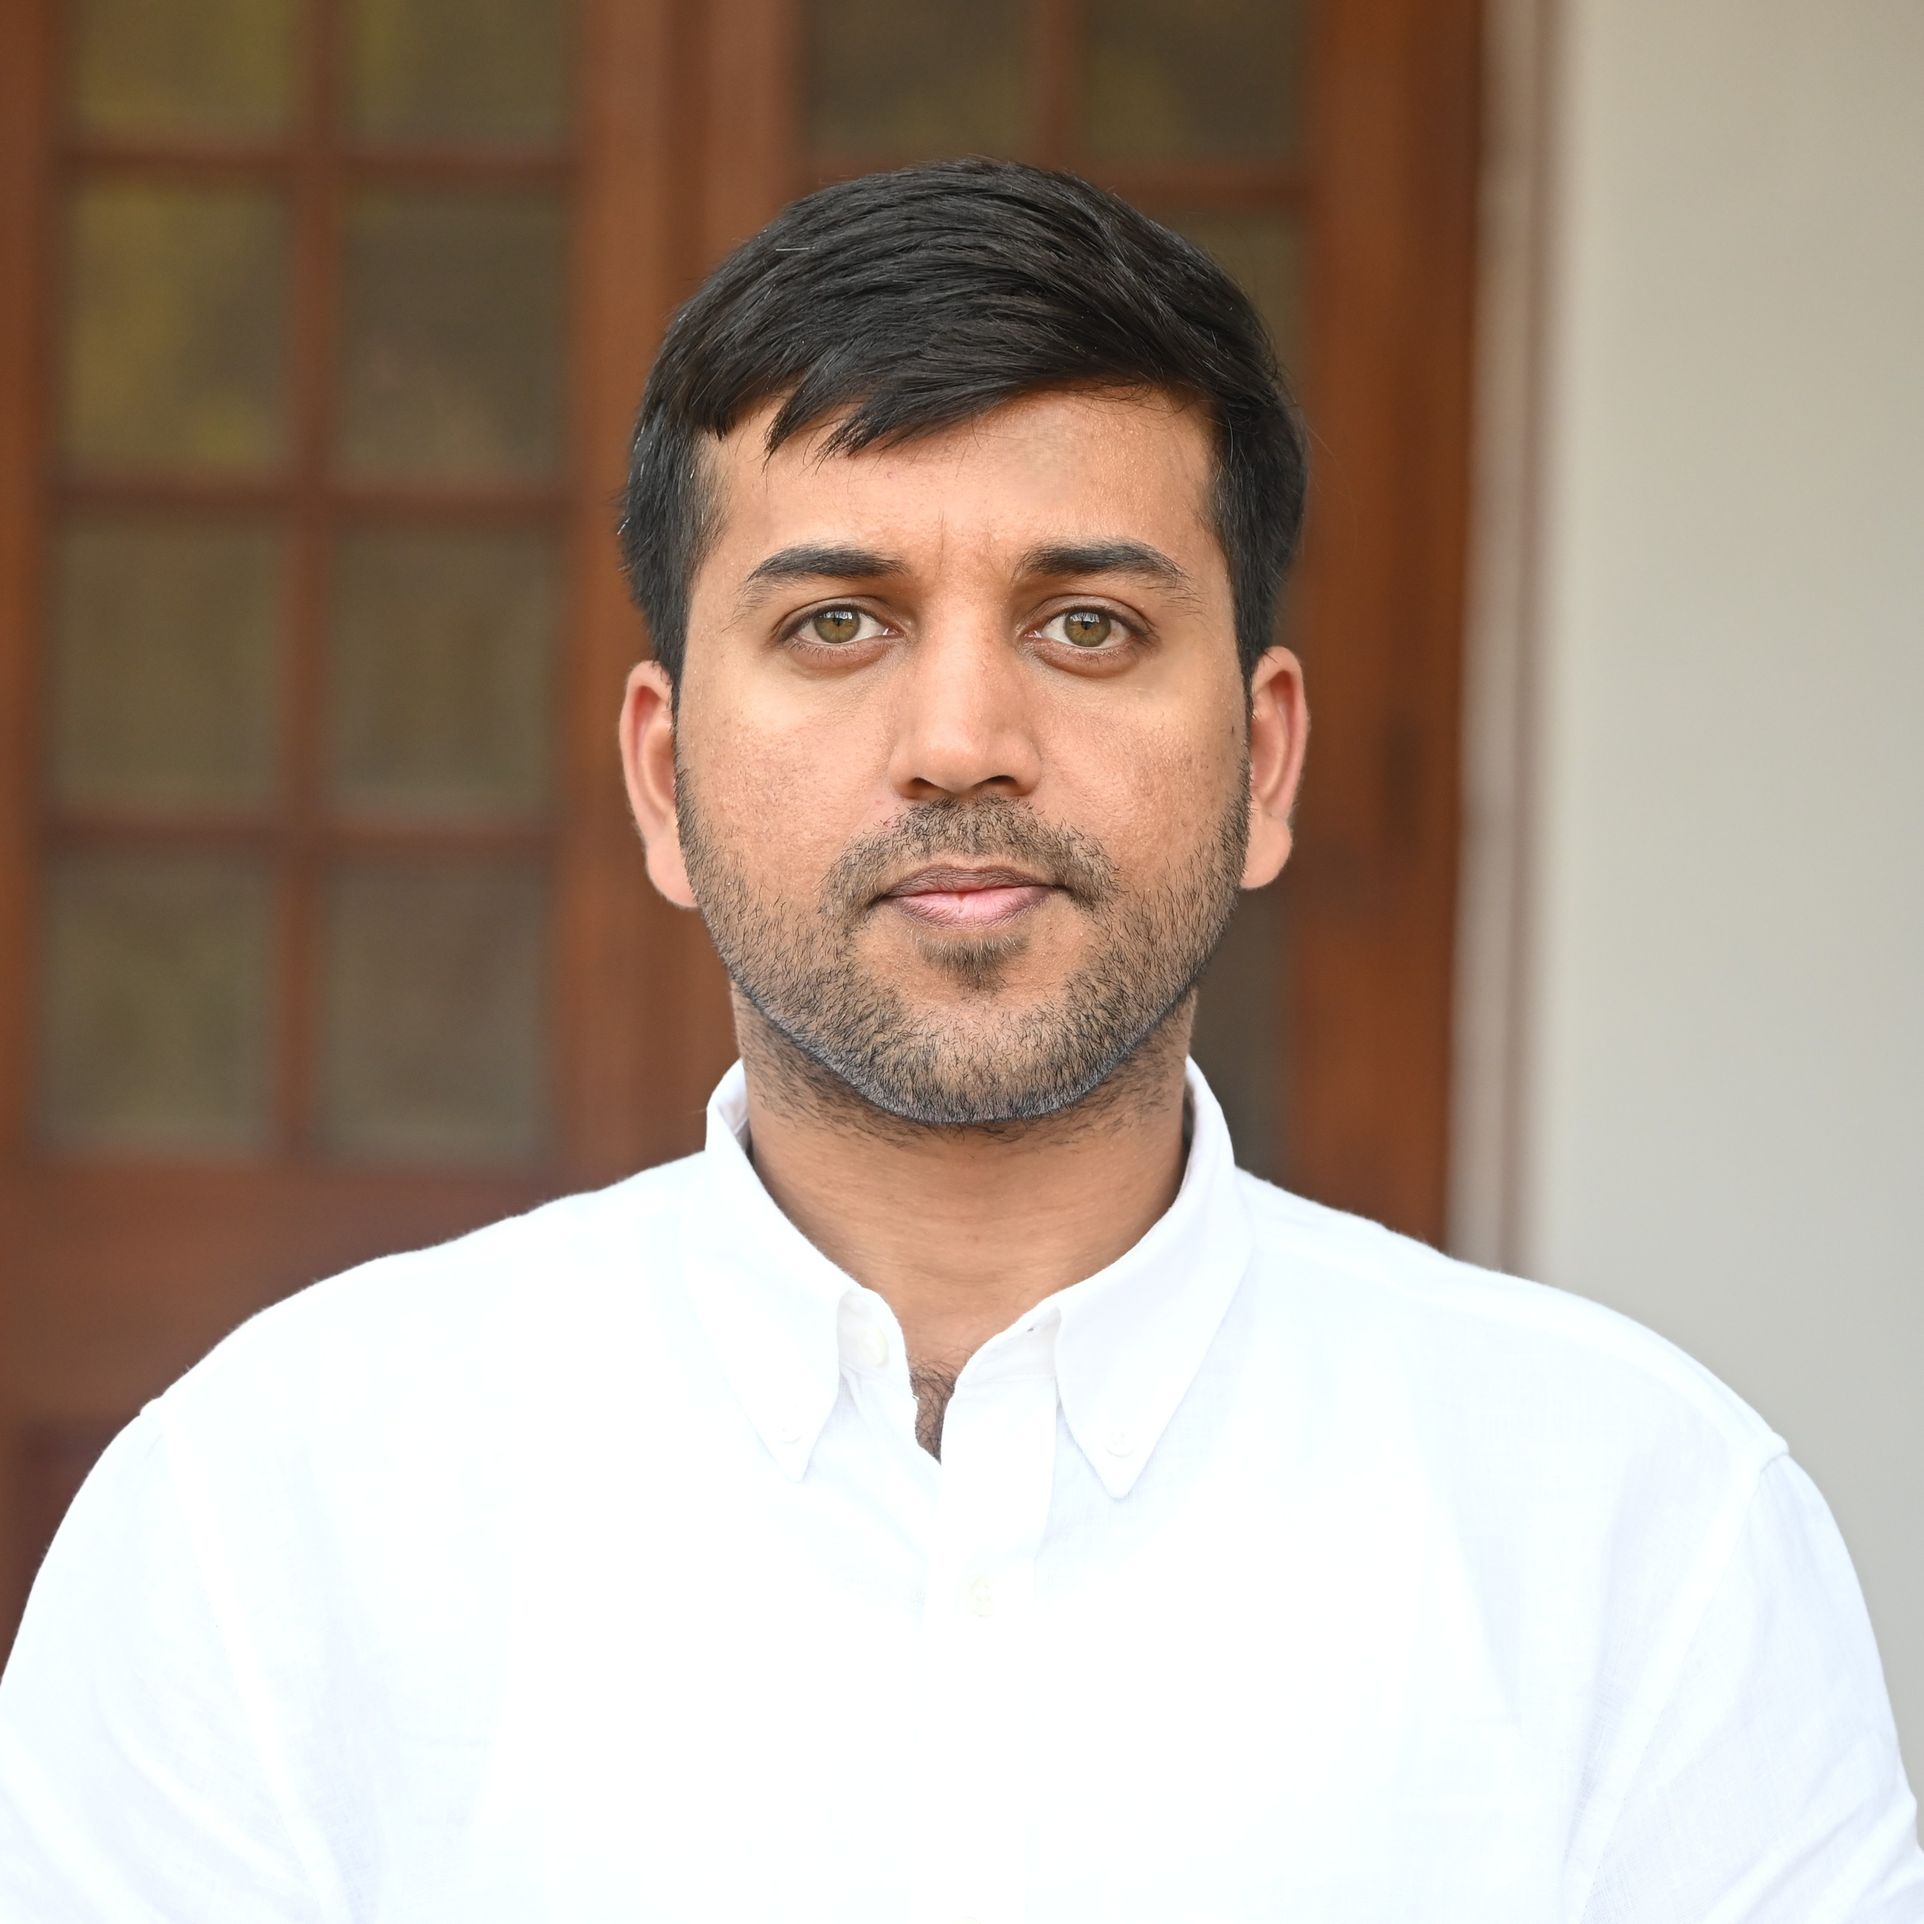
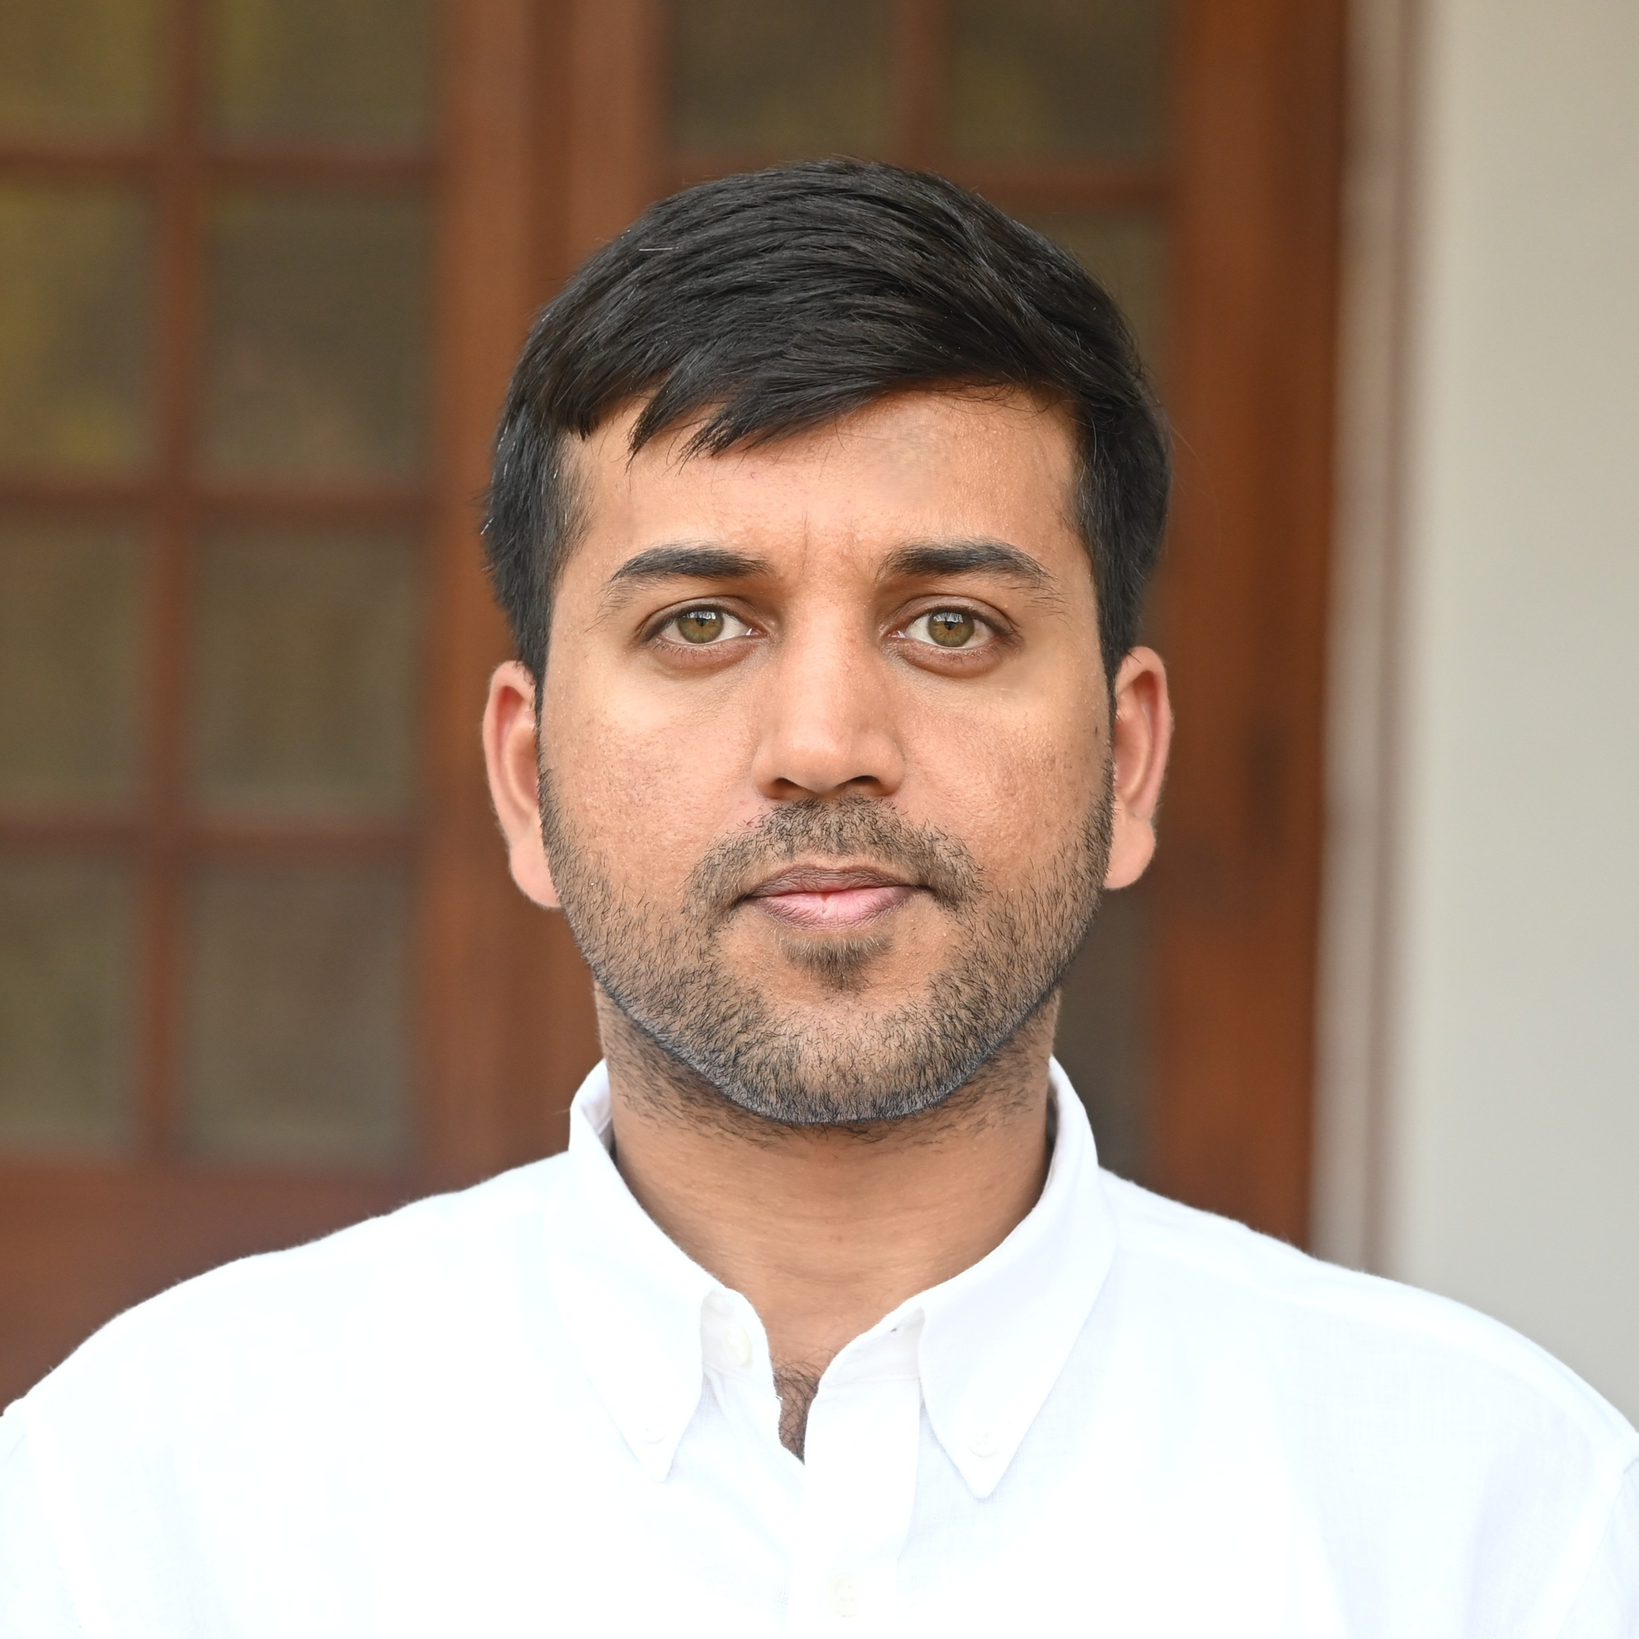
Auto Update

diff --git a/src/app/page/home/home.html b/src/app/page/home/home.html
@@ -12,7 +12,7 @@
       <div class="row align-items-center">
         <div class="col-12 col-sm-auto text-center text-sm-start mb-3 mb-sm-0 pe-sm-3">
           <img
-            src="assets/image/KrishnaKP.JPG"
+            src="assets/image/KrishnaKP.jpg"
             alt="Profile"
             class="img-thumbnail bg-light p-1"
             style="height:auto; width:clamp(130px, 30vw, 170px); object-fit:cover; border-radius:8px;"

diff --git a/src/environments/build-info.ts b/src/environments/build-info.ts
@@ -1,3 +1,3 @@
 export const buildInfo = {
-  buildDate: '2026-11-19T00:22:54.672Z'
+  buildDate: '2026-11-19T01:52:40.239Z'
 };
